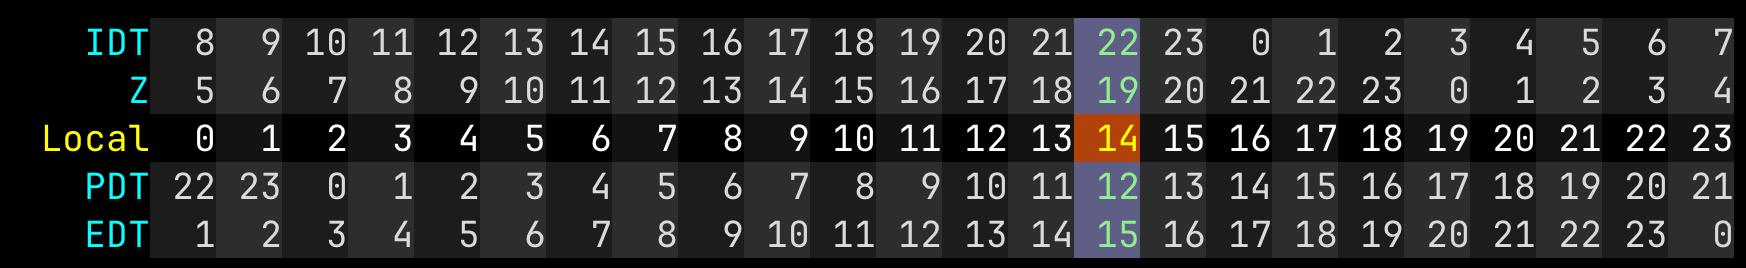
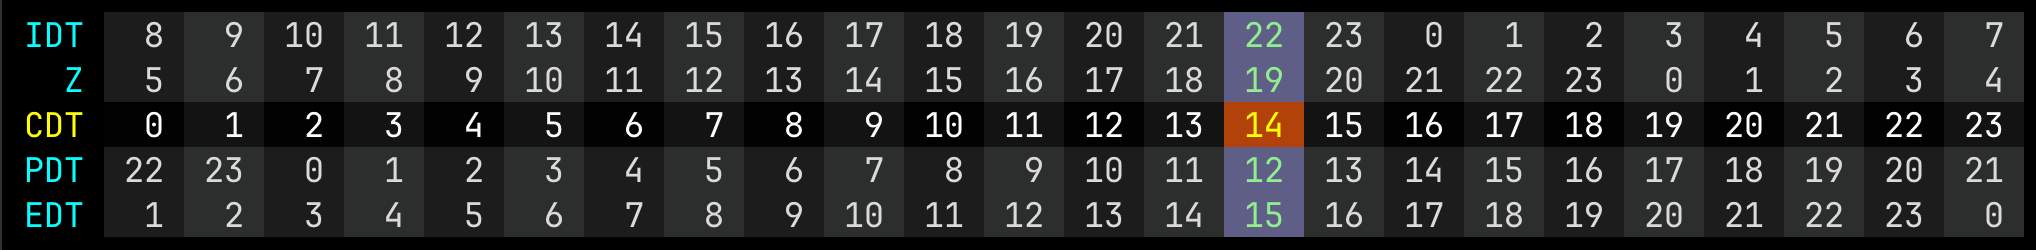
v1.0.1: Fix tests overwriting user config, add cell padding
- Add config.DirOverride so tests use temp dirs instead of real config
- Increase cell width to 4 for proper left+right padding on all cells
- Add padding test covering both sides of each cell
- Bump version to 1.0.1

Changed region(s): [[0.0, 0.028, 1.0, 0.98]]

diff --git a/ui/view_test.go b/ui/view_test.go
@@ -1,6 +1,7 @@
 package ui
 
 import (
+	"regexp"
 	"strings"
 	"testing"
 	"time"
@@ -9,6 +10,17 @@ import (
 
 	"clockscale/config"
 )
+
+// stripANSI removes ANSI escape sequences so we can inspect raw text content.
+var ansiRe = regexp.MustCompile(`\x1b\[[0-9;]*[a-zA-Z]`)
+
+func useTempConfigDir(t *testing.T) {
+	t.Helper()
+	tmp := t.TempDir()
+	old := config.DirOverride
+	config.DirOverride = tmp
+	t.Cleanup(func() { config.DirOverride = old })
+}
 
 func testConfig() *config.Config {
 	return &config.Config{
@@ -203,6 +215,7 @@ func TestWindowSizeMsg(t *testing.T) {
 }
 
 func TestTickUpdatesTime(t *testing.T) {
+	useTempConfigDir(t)
 	cfg := testConfig()
 	m := New(cfg)
 
@@ -249,7 +262,60 @@ func TestShiftLightness(t *testing.T) {
 	}
 }
 
+func TestCellsHavePadding(t *testing.T) {
+	cfg := testConfig()
+	m := New(cfg)
+
+	view := m.View()
+	lines := strings.Split(view, "\n")
+
+	for i, line := range lines {
+		if i >= len(cfg.Timezones) {
+			break
+		}
+		stripped := ansiRe.ReplaceAllString(line, "")
+
+		// Label should be followed by a space (right padding) before the first hour cell.
+		label := cfg.Timezones[i].Label
+		labelIdx := strings.Index(stripped, label)
+		if labelIdx == -1 {
+			t.Errorf("row %d: label %q not found in stripped line", i, label)
+			continue
+		}
+		afterLabel := stripped[labelIdx+len(label):]
+		if len(afterLabel) == 0 || afterLabel[0] != ' ' {
+			t.Errorf("row %d: expected space padding after label %q", i, label)
+		}
+
+		// Walk the hour area checking that every digit-group (cell) has:
+		//   - at least 1 space before the first digit (left padding)
+		//   - at least 1 space after the last digit (right padding)
+		hourArea := afterLabel
+		for j := 0; j < len(hourArea); j++ {
+			ch := hourArea[j]
+			if ch < '0' || ch > '9' {
+				continue
+			}
+			// Found start of a digit group — check left padding
+			if j == 0 || hourArea[j-1] != ' ' {
+				t.Errorf("row %d: digit at position %d missing left padding space", i, j)
+			}
+			// Advance past all digits in this group
+			end := j
+			for end < len(hourArea) && hourArea[end] >= '0' && hourArea[end] <= '9' {
+				end++
+			}
+			// Check right padding
+			if end < len(hourArea) && hourArea[end] != ' ' {
+				t.Errorf("row %d: digit group ending at position %d missing right padding space", i, end-1)
+			}
+			j = end // skip past this group
+		}
+	}
+}
+
 func TestDeleteModeNavigateAndDelete(t *testing.T) {
+	useTempConfigDir(t)
 	cfg := testConfig()
 	m := New(cfg)
 	originalCount := len(m.config.Timezones)

diff --git a/config/config_test.go b/config/config_test.go
@@ -7,6 +7,14 @@ import (
 	"testing"
 )
 
+func useTempDir(t *testing.T) {
+	t.Helper()
+	tmp := t.TempDir()
+	old := DirOverride
+	DirOverride = tmp
+	t.Cleanup(func() { DirOverride = old })
+}
+
 func TestDefaultConfig(t *testing.T) {
 	cfg := DefaultConfig()
 
@@ -101,56 +109,47 @@ func TestBootstrapCreatesFileAndDirs(t *testing.T) {
 }
 
 func TestLoadCreatesDefaultWhenMissing(t *testing.T) {
-	tmpDir := t.TempDir()
-	path := filepath.Join(tmpDir, "clockscale", "config.json")
+	useTempDir(t)
 
-	// Override ConfigPath for this test by writing and reading directly
-	cfg := DefaultConfig()
-	if err := bootstrap(path, cfg); err != nil {
-		t.Fatalf("bootstrap: %v", err)
-	}
-
-	data, err := os.ReadFile(path)
+	cfg, err := Load()
 	if err != nil {
-		t.Fatalf("read: %v", err)
+		t.Fatalf("Load: %v", err)
 	}
 
-	var loaded Config
-	if err := json.Unmarshal(data, &loaded); err != nil {
-		t.Fatalf("unmarshal: %v", err)
-	}
-
-	if len(loaded.Timezones) == 0 {
+	if len(cfg.Timezones) == 0 {
 		t.Error("loaded config has no timezones")
+	}
+
+	// Verify the file was actually created on disk
+	path, _ := ConfigPath()
+	if _, err := os.Stat(path); os.IsNotExist(err) {
+		t.Error("config file was not created on disk")
 	}
 }
 
 func TestSaveOverwritesExistingFile(t *testing.T) {
-	tmpDir := t.TempDir()
-	path := filepath.Join(tmpDir, "config.json")
+	useTempDir(t)
 
-	original := DefaultConfig()
-	if err := bootstrap(path, original); err != nil {
-		t.Fatalf("bootstrap: %v", err)
+	// Create initial config via Load (bootstraps default)
+	original, err := Load()
+	if err != nil {
+		t.Fatalf("Load: %v", err)
 	}
 
-	modified := DefaultConfig()
+	// Modify and save
+	modified := *original
 	modified.Timezones = append(modified.Timezones, TimezoneConfig{
 		Timezone: "Europe/London",
 		Label:    "GMT",
 	})
-	if err := bootstrap(path, modified); err != nil {
-		t.Fatalf("save modified: %v", err)
+	if err := Save(&modified); err != nil {
+		t.Fatalf("Save: %v", err)
 	}
 
-	data, err := os.ReadFile(path)
+	// Re-load and verify
+	loaded, err := Load()
 	if err != nil {
-		t.Fatalf("read: %v", err)
-	}
-
-	var loaded Config
-	if err := json.Unmarshal(data, &loaded); err != nil {
-		t.Fatalf("unmarshal: %v", err)
+		t.Fatalf("Load after save: %v", err)
 	}
 
 	if len(loaded.Timezones) != len(modified.Timezones) {

diff --git a/ui/view.go b/ui/view.go
@@ -29,7 +29,7 @@ func shiftLightness(hex string, steps float64) string {
 }
 
 const (
-	cellWidth = 3
+	cellWidth = 4
 	numHours  = 24
 )
 
@@ -99,7 +99,8 @@ func (m Model) View() string {
 		labelStyle := lipgloss.NewStyle().
 			Foreground(lipgloss.Color(labelFg)).
 			Width(labelWidth).
-			Align(lipgloss.Right)
+			Align(lipgloss.Right).
+			PaddingRight(1)
 
 		// In delete mode, highlight the selected row's label
 		if m.state == stateDelete && rowIdx == m.cursor {
@@ -143,6 +144,7 @@ func (m Model) View() string {
 				cellStyle.
 					Width(cellWidth).
 					Align(lipgloss.Right).
+					PaddingRight(1).
 					Render(fmt.Sprintf("%d", localHour)),
 			)
 		}

diff --git a/config/config.go b/config/config.go
@@ -65,7 +65,14 @@ func DefaultConfig() *Config {
 	}
 }
 
+// DirOverride, when non-empty, replaces the default config directory.
+// This exists so tests can redirect all config I/O to a temp directory.
+var DirOverride string
+
 func ConfigPath() (string, error) {
+	if DirOverride != "" {
+		return filepath.Join(DirOverride, "config.json"), nil
+	}
 	home, err := os.UserHomeDir()
 	if err != nil {
 		return "", err

diff --git a/Formula/clockscale.rb b/Formula/clockscale.rb
@@ -1,7 +1,7 @@
 class Clockscale < Formula
   desc "Terminal UI for viewing multiple timezones in a 24-hour grid"
   homepage "https://github.com/dphase/clockscale-go"
-  url "https://github.com/dphase/clockscale-go/archive/refs/tags/v1.0.0.tar.gz"
+  url "https://github.com/dphase/clockscale-go/archive/refs/tags/v1.0.1.tar.gz"
   sha256 ""
   license "MIT"
 

diff --git a/main.go b/main.go
@@ -10,7 +10,7 @@ import (
 	"clockscale/ui"
 )
 
-const version = "1.0.0"
+const version = "1.0.1"
 
 func main() {
 	if len(os.Args) > 1 && (os.Args[1] == "--version" || os.Args[1] == "-v") {
